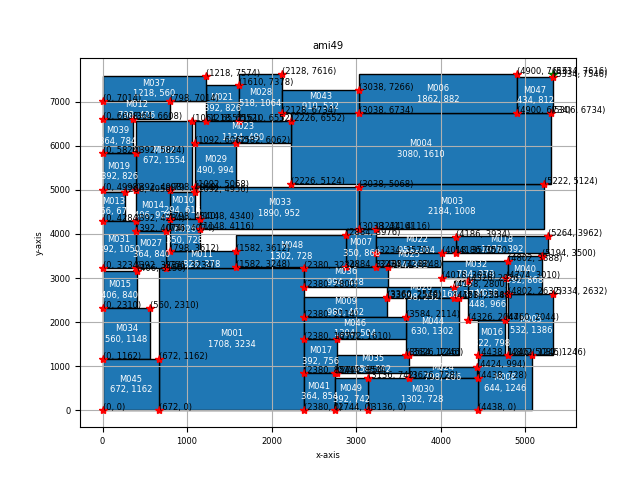
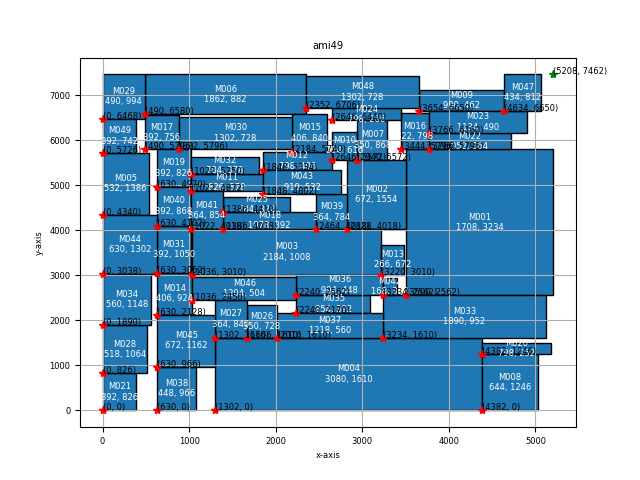
2022-04-08 all testcase passgit log!

diff --git a/src/sp.cpp b/src/sp.cpp
@@ -6,10 +6,11 @@
 #include <random>
 using namespace std;
 
-SequencePair::SequencePair(ifstream &fin_blk, ifstream &fin_net) {
-   this->ParseBlk(fin_blk);
-   this->ParseNet(fin_net);
-   DEBUG_MSG("Parse finished...");
+SequencePair::SequencePair(ifstream &fin_blk, ifstream &fin_net, double alpha) {
+    alpha_ = alpha;
+    this->ParseBlk(fin_blk);
+    this->ParseNet(fin_net);
+    DEBUG_MSG("Parse finished...");
 }
 
 SequencePair::~SequencePair() {
@@ -22,12 +23,27 @@ SequencePair::~SequencePair() {
 }
 
 /* -------------------- solver -------------------- */
+double SequencePair::Area() {
+    return max_width_ * max_height_;
+}
+
+double SequencePair::Wirelength() {
+    return 1;
+}
+
+double SequencePair:: HPWL(Terminal* a, Terminal* b) {
+    return 1;
+}
+
+
 double SequencePair::Cost(int w, int h) {
     if (has_legal_ == false) {
         int delta_w = (w - W_);
         int delta_h = (h - H_);
         int max_w = (max_width_ - W_);
         int max_h = (max_height_ - H_);
+        if (delta_w > 0 && delta_h > 0)
+            return w * h - max_width_ * max_height_;
         if (delta_w > 0)
             return delta_w - max_w;
         if (delta_h > 0)
@@ -55,9 +71,12 @@ void SequencePair::Solve() {
 
     double temparature = 99999999.0, delta;
     int cnt = 0;
-    while (temparature > 1) {
-//        if (has_legal_ == false)
-  //          temparature = 100000.0;
+    while (1) {
+        if (temparature < 1) {
+            if (has_legal_)
+                break;
+            temparature = 999.0;
+        }
         for (int i = 0; i < NUM_STEPS; ++i) {
             int op = rand_op(mt);
             int a, b;
@@ -88,12 +107,14 @@ void SequencePair::Solve() {
             if (has_legal_ == false) {
                 if (w <= W_ && h <= H_) {
                     has_legal_ = true;
+                    temparature = 99999.0;
                 } else if (h <= W_ && w <= H_) {
                     has_legal_ = true;
                     this->Rotate90();
                     int temp = w;
                     w = h;
                     h = temp;
+                    temparature = 99999.0;
                 }       
             }
                         
@@ -356,17 +377,17 @@ void SequencePair::ParseError(int code) {
 void SequencePair::WriteReport(ofstream &fout) {
     X_.assign(best_X_.begin(), best_X_.end());
     Y_.assign(best_Y_.begin(), best_Y_.end());
-    this->EvaluateSequence(0);
-    this->EvaluateSequence(1);
+    max_width_ = this->EvaluateSequence(0);
+    max_height_ = this->EvaluateSequence(1);
 
     // <final cost> 
-    
+    fout << this->Cost(max_width_, max_height_) << endl; 
     
     // <total wirelength>
-    
+    fout << this->Wirelength() << endl; 
     
     // <chip_area>
-    
+    fout << this->Area() << endl;
     
     // <chip_width> <chip_height>
     fout << max_width_ << " " << max_height_ << endl;

diff --git a/src/sp.h b/src/sp.h
@@ -24,7 +24,7 @@ const double R = 0.999;
 class SequencePair {
 public:
     // constructor and destructor
-    SequencePair(ifstream &fin_blk, ifstream &fin_net);
+    SequencePair(ifstream &fin_blk, ifstream &fin_net, double alpha);
     ~SequencePair();
 
     // input and output
@@ -45,6 +45,7 @@ public:
 
 private:
     // basic information
+    double alpha_;
     int W_, H_;   // boundary constraint
     int num_blocks_;
     int num_terminals_;

diff --git a/src/plot.py b/src/plot.py
@@ -62,8 +62,8 @@ def read_rpt(filename):
         y1 = int(y1)
         x2 = int(x2)
         y2 = int(y2)
-        x_list.extend([x1, x2])
-        y_list.extend([y1, y2])
+        x_list.extend([x1]) #, x2])
+        y_list.extend([y1]) #, y2])
         w = x2 - x1
         h = y2 - y1
         cx = x1 + w / 2.0

diff --git a/src/main.cpp b/src/main.cpp
@@ -61,7 +61,7 @@ int main(int argc, char* argv[])
         exit(1);
     }
 
-    SequencePair sp(fin_blk, fin_net);
+    SequencePair sp(fin_blk, fin_net, stod(argv[1]));
 
     clock_t start, end;
     start = clock();
